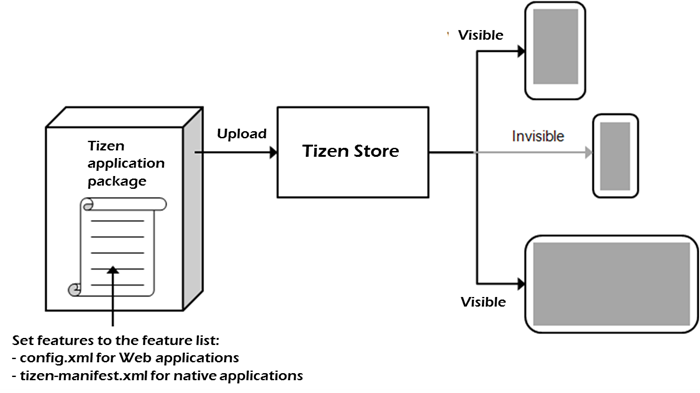
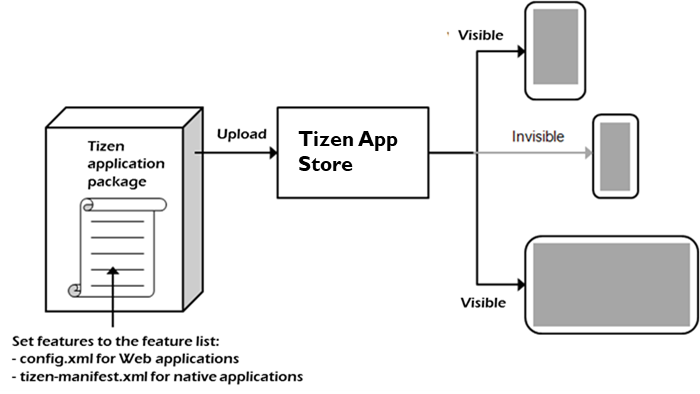
Updated app filtering flow image and removed link to tizen store article

diff --git a/docs/application/native/tutorials/process/app-dev-process.md b/docs/application/native/tutorials/process/app-dev-process.md
@@ -164,6 +164,4 @@ To certify and publish your application:
 
   The official site for Tizen applications or Samsung Galaxy Apps Store checks whether your application functions properly.
 
-For detailed instructions on how to register your application and submit it for validation and publication in the store, see [Store Overview](https://developer.tizen.org/distribution/tizen-store-overview) and other subtopics within the **Distribution** section of the Tizen Developers site.
-
 You can also upgrade your application after certification. If you want to withdraw your application from distribution and operation, you need to request for application retirement from the official site for Tizen applications or Samsung Galaxy Apps Store.

diff --git a/docs/application/web/tutorials/process/app-dev-process.md b/docs/application/web/tutorials/process/app-dev-process.md
@@ -264,8 +264,6 @@ To certify and publish your application:
 
     The store checks whether your application functions properly before publishing it.
 
-For detailed instructions on how to register your application and submit it for validation and publication in the store, see [Store Overview](https://developer.tizen.org/distribution/tizen-store-overview) and other subtopics within the **Distribution** section of the Tizen Developers site.
-
 You can also upgrade your application after certification. If you want to withdraw your application from distribution and operation, you need to request for application retirement from the store.
 
 <a name="upgrade"></a>
